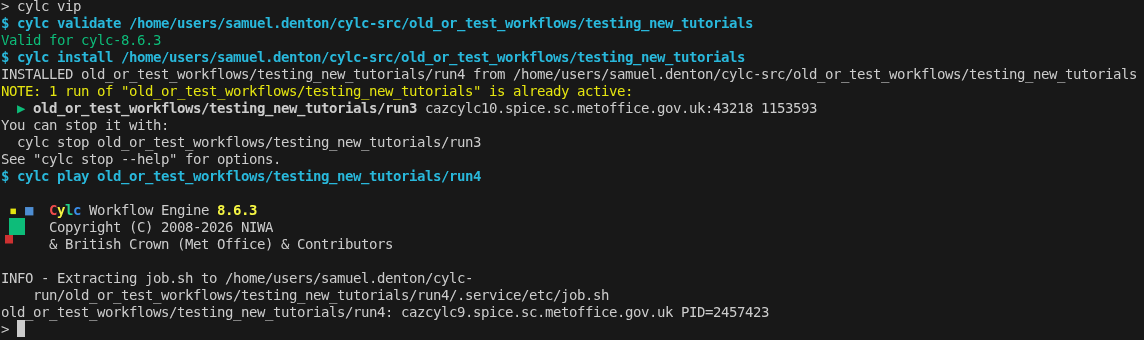
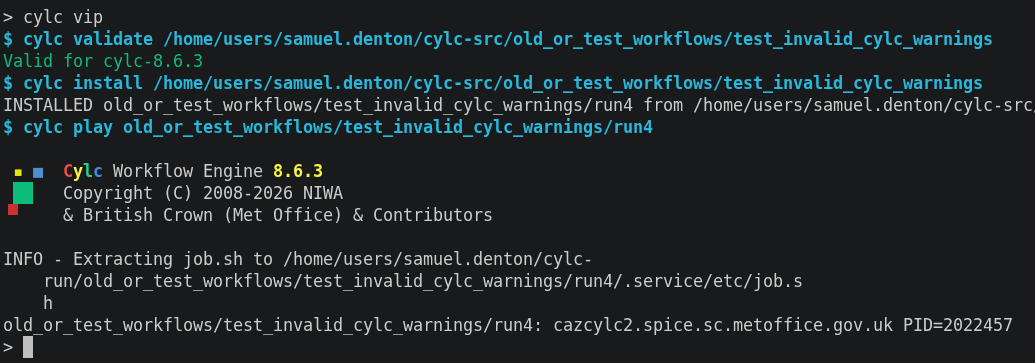
new cylc-cli image. Reworded the families page to closer match the examples being worked on.

Changed region(s): [[0.0, 0.0, 1.0, 1.0]]

diff --git a/src/tutorial/runtime/configuration-consolidation/families.rst b/src/tutorial/runtime/configuration-consolidation/families.rst
@@ -6,7 +6,8 @@ Families
 :term:`Families <family>` provide a way of grouping tasks together so they can
 be treated as one.
 
-This example adds a new environment variable to the configuration. ``GET_NEARBY`` shows how families can make workflows simpler. We are going to add it to the ``get_observations`` script. If the script cannot get data from the named site this setting will allow it to try nearby sites.
+They can be used to consolidate tasks runtime configuration and environment variables,
+as well as to simplify the workflow's :term:`graph` by grouping together related tasks.
 
 Runtime
 -------
@@ -14,23 +15,22 @@ Runtime
 .. ifnotslides::
 
    :term:`Families <family>` are groups of tasks which share a common
-   configuration. In the present example the common configuration is:
+   configuration. In this example we have multiple tasks sharing this configuration:
 
    .. code-block:: cylc
 
-      script = get-observations
-      [[[environment]]]
-          GET_NEARBY = true
+      [[consolidate_observations]]
+          [[[environment]]]
+              DOMAIN = -12,46,12,61
 
    We define a family as a new task consisting of the common configuration. By
    convention families are named in upper case:
 
 .. code-block:: cylc
 
-   [[GET_OBSERVATIONS]]
-       script = get-observations
+   [[PROCESS_DATA]]
        [[[environment]]]
-           GET_NEARBY = true
+           DOMAIN = -12,46,12,61
 
 .. ifnotslides::
 
@@ -38,10 +38,8 @@ Runtime
 
 .. code-block:: cylc
 
-   [[get_observations_heathrow]]
-       inherit = GET_OBSERVATIONS
-       [[[environment]]]
-           SITE_ID = 3772
+   [[consolidate_observations]]
+       inherit = PROCESS_DATA
 
 .. ifnotslides::
 
@@ -51,65 +49,69 @@ Runtime
 
 .. code-block:: cylc
 
-   [[get_observations_heathrow]]
-       script = get-observations
+   [[consolidate_observations]]
        [[[environment]]]
-           SITE_ID = 3772
-           GET_NEARBY = true
+           DOMAIN = -12,46,12,61
 
 .. nextslide::
 
 .. ifnotslides::
 
    It is possible to override inherited configuration within the task. For
-   example if we wanted the ``get_observations_heathrow`` task to fail rather
-   than use a nearby alternative:
+   example if we wanted the ``consolidate_observations`` task to use a different
+   domain compared to the other members of the family we could do:
 
 .. code-block:: cylc
    :emphasize-lines: 4
 
-   [[get_observations_heathrow]]
-       inherit = GET_OBSERVATIONS
+   [[consolidate_observations]]
+       inherit = PROCESS_DATA
        [[[environment]]]
-           SITE_ID = 3772
-           GET_NEARBY = false
+           DOMAIN = -10,40,10,60
 
 .. nextslide::
 
 .. ifnotslides::
 
-   Using families the ``get_observations`` tasks could be written in a
+   Using families these processing tasks could be written in a
    shorter form:
 
 .. code-block:: diff
 
    [runtime]
-       [[GET_OBSERVATIONS]]
-           script = get-observations
+       [[PROCESS_DATA]]
    +         [[[environment]]]
-   +             GET_NEARBY = true
+   +             RESOLUTION = {{ RESOLUTION }}
+   +             DOMAIN = -12,46,12,61
 
-       [[get_observations_heathrow]]
-           inherit = GET_OBSERVATIONS
-           script = get_metar_observation
+       [[consolidate_observations]]
+           inherit = PROCESS_DATA
+           script = consolidate-observations
+   -       [[[environment]]]
+   -           RESOLUTION = {{ RESOLUTION }}
+   -           DOMAIN = -12,46,12,61
+       [[get_rainfall]]
+           inherit = PROCESS_DATA
+           script = get-rainfall
+   -       [[[environment]]]
+   -           RESOLUTION = {{ RESOLUTION }}
+   -           DOMAIN = -12,46,12,61
+       [[forecast]]
+           inherit = PROCESS_DATA
+           script = forecast 60 5
            [[[environment]]]
-               SITE_ID = EGLL
-   -           GET_NEARBY = true
-       [[get_observations_camborne]]
-           inherit = GET_OBSERVATIONS
-           [[[environment]]]
-               SITE_ID = 3808
-   -           GET_NEARBY = true
-       [[get_observations_shetland]]
-           inherit = GET_OBSERVATIONS
-           [[[environment]]]
-   -           GET_NEARBY = true
-               SITE_ID = 3005
-       [[get_observations_aldergrove]]
-           inherit = GET_OBSERVATIONS
-           [[[environment]]]
-               SITE_ID = 3917
-   -           GET_NEARBY = true
+               WIND_FILE_TEMPLATE = $CYLC_WORKFLOW_WORK_DIR/{cycle}/consolidate_observations/wind_{xy}.csv
+               WIND_CYCLES = 0, -3, -6
+               RAINFALL_FILE = $CYLC_WORKFLOW_WORK_DIR/$CYLC_TASK_CYCLE_POINT/get_rainfall/rainfall.csv
+               MAP_FILE = "${CYLC_TASK_LOG_ROOT}-map.html"
+               MAP_TEMPLATE = "$CYLC_WORKFLOW_RUN_DIR/lib/template/map.html"
+   -           RESOLUTION = {{ RESOLUTION }}
+   -           DOMAIN = -12,46,12,61
+       [[post_process_exeter]]
+           script = post-process exeter 300
+   -       [[[environment]]]
+   -           RESOLUTION = {{ RESOLUTION }}
+   -           DOMAIN = -12,46,12,61
 
 
 Graphing